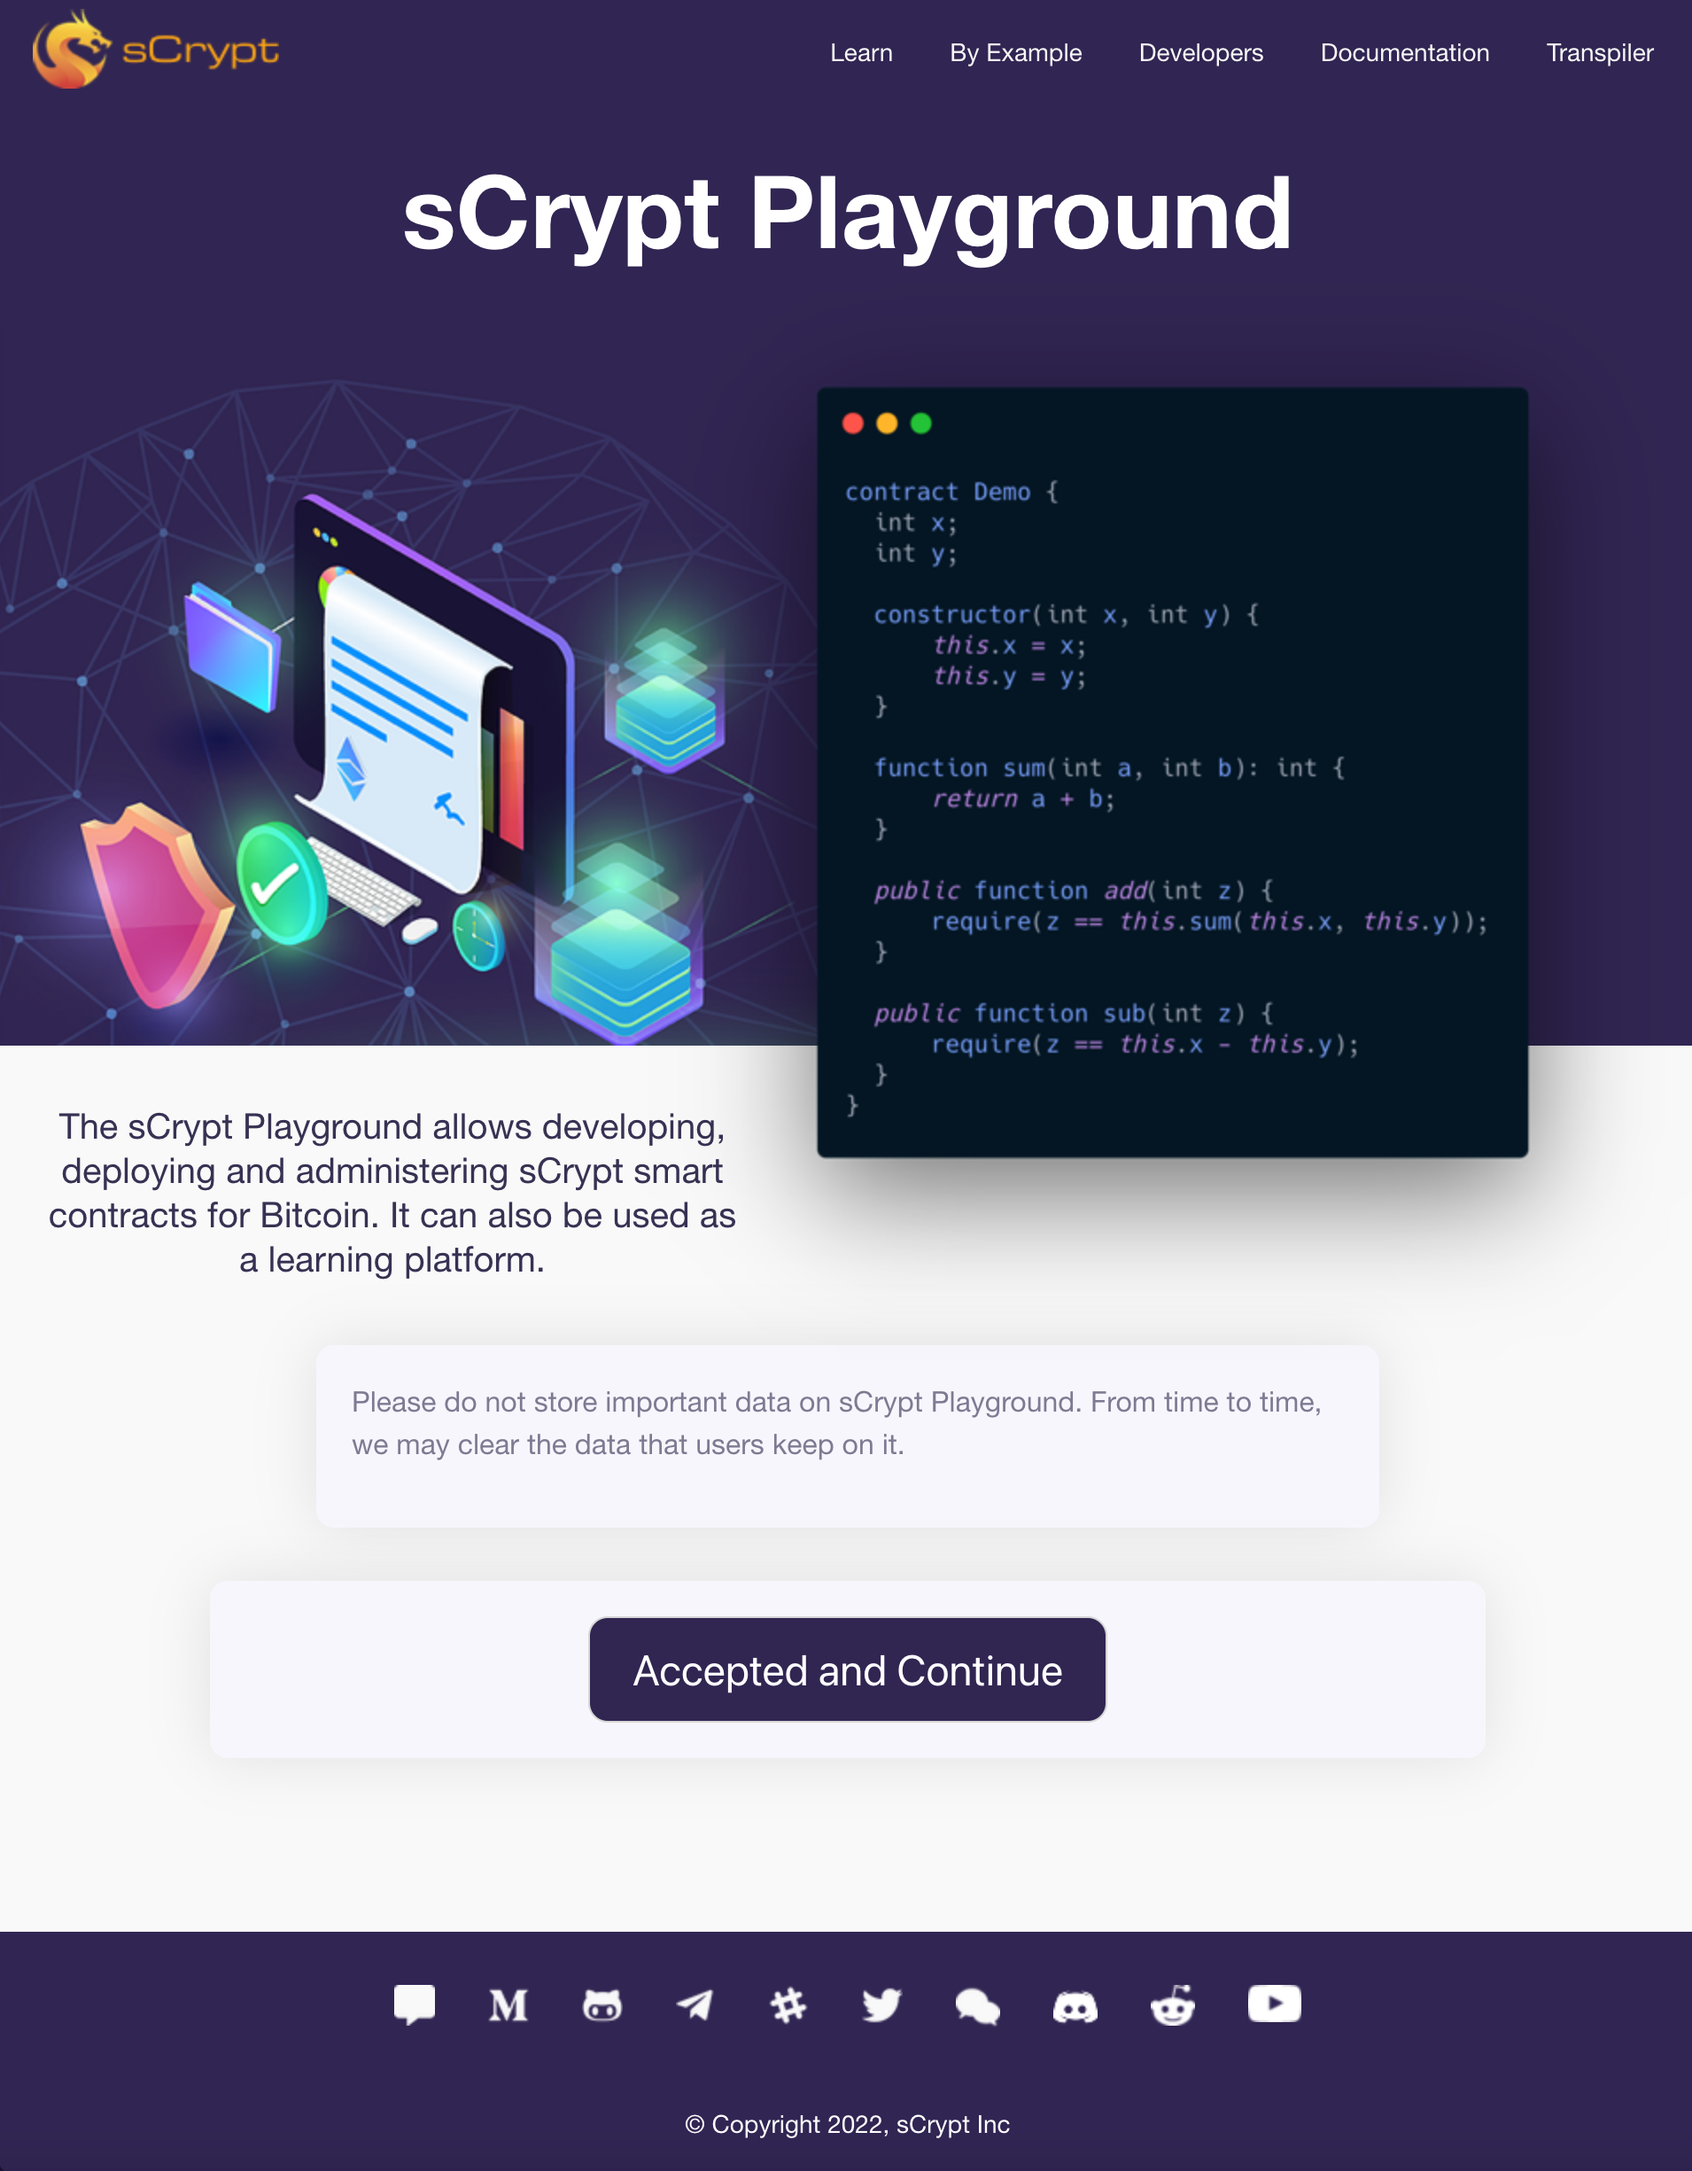
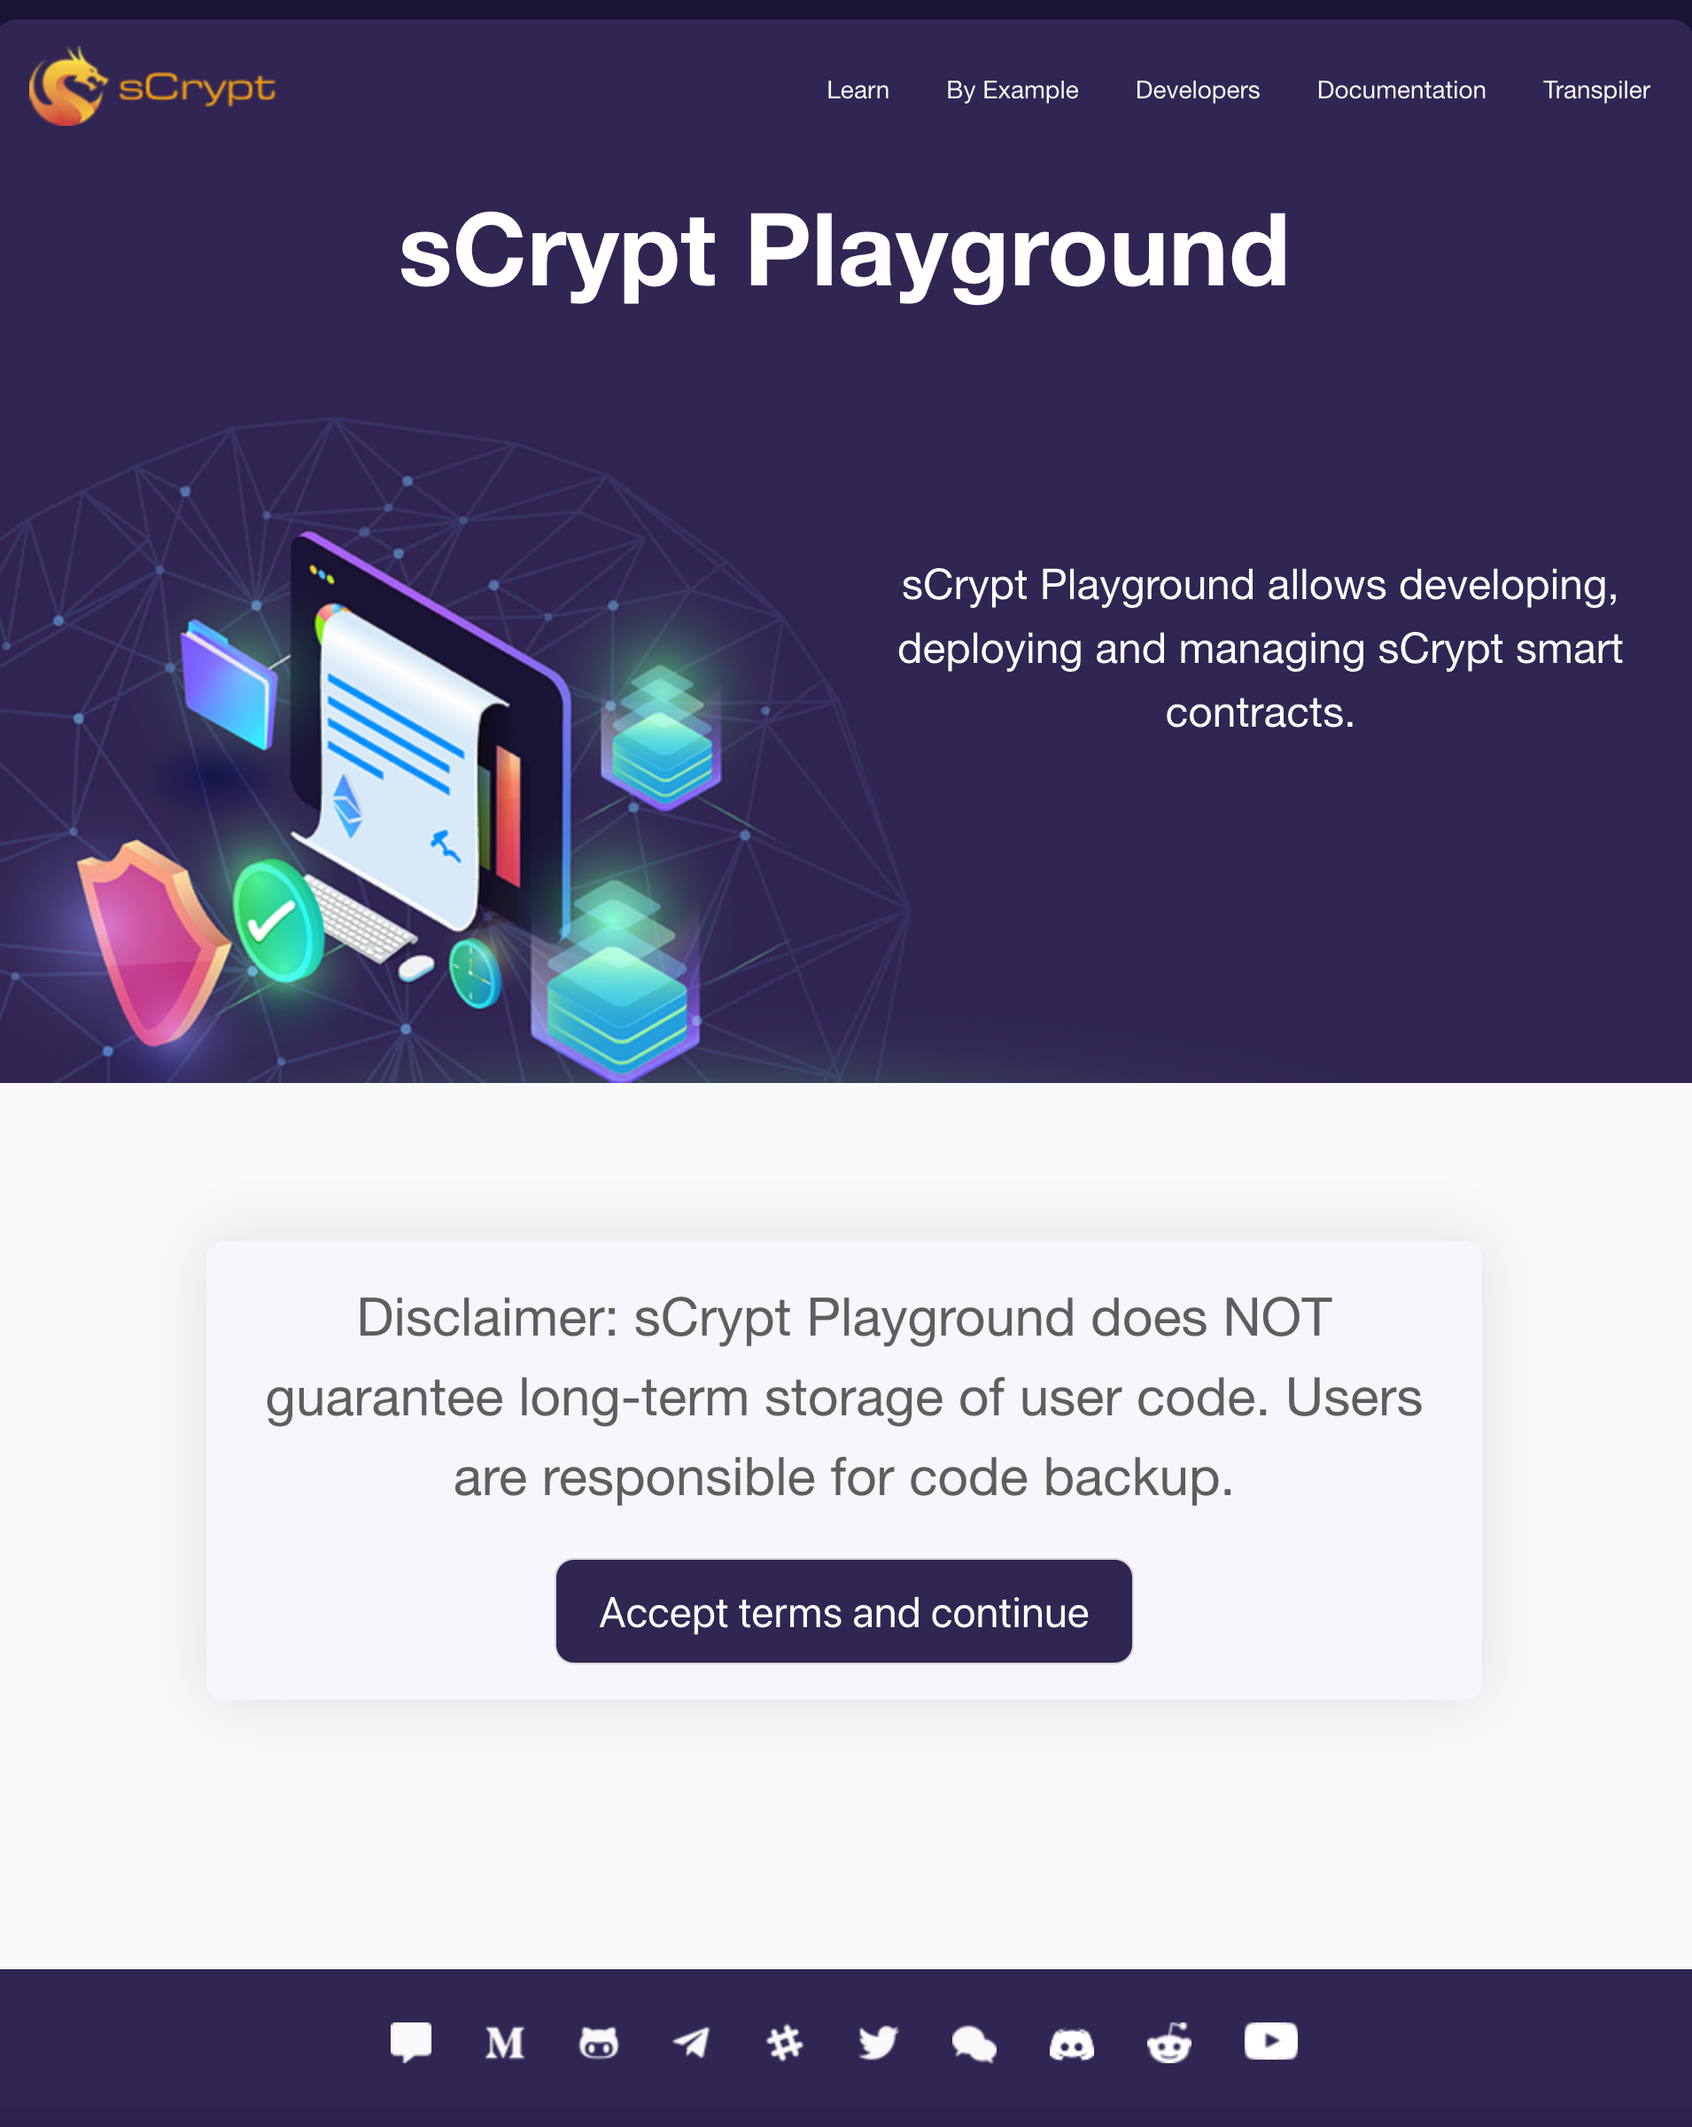
update scrypt Playground

diff --git a/Announcements/20220928/sCrypt-playground-20220928.md b/Announcements/20220928/sCrypt-playground-20220928.md
@@ -3,6 +3,6 @@
 
 sCrypt Playground 发布了。 与桌面IDE 完全相同的功能，但是无需安装。体验地址: [https://playground.scrypt.io](https://playground.scrypt.io)。
 
-请不要在 sCrypt Playground 上存储重要数据。我们会不定时清除用户保存在其上的数据。
+免责声明：sCrypt Playground 不保证用户代码的长期存储。用户负责代码备份。
 
 ![](./1.png)
